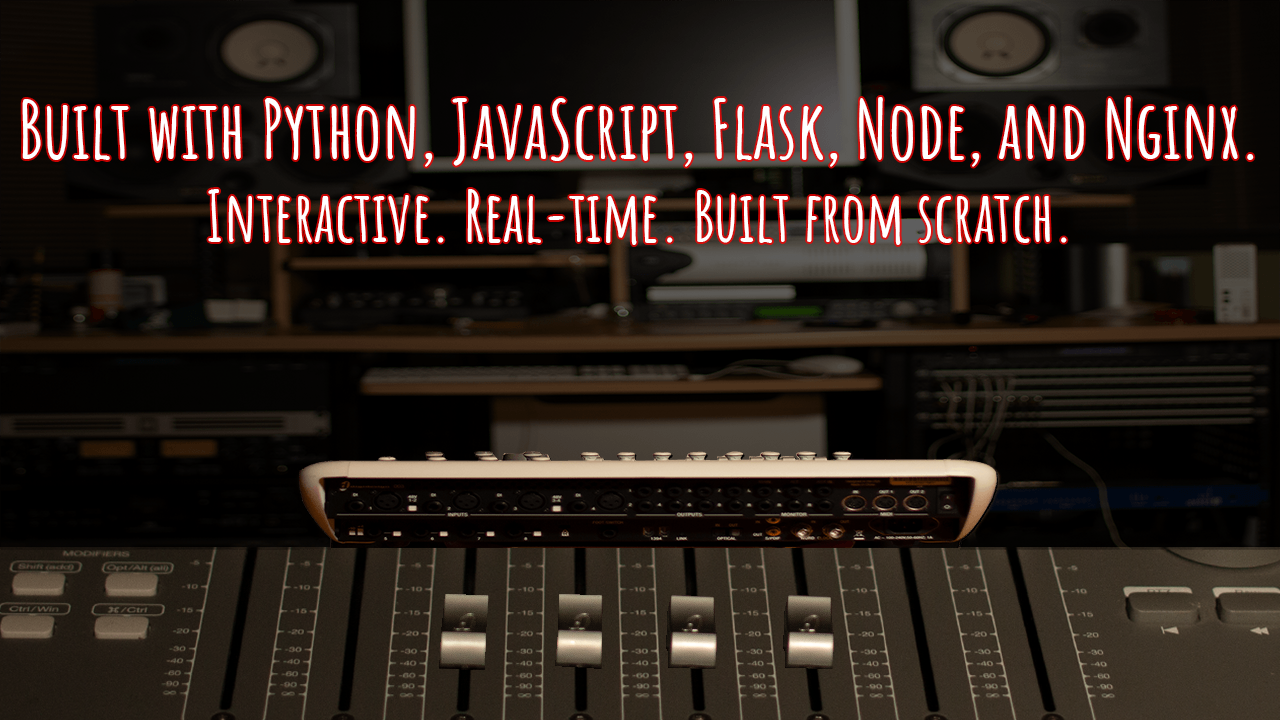
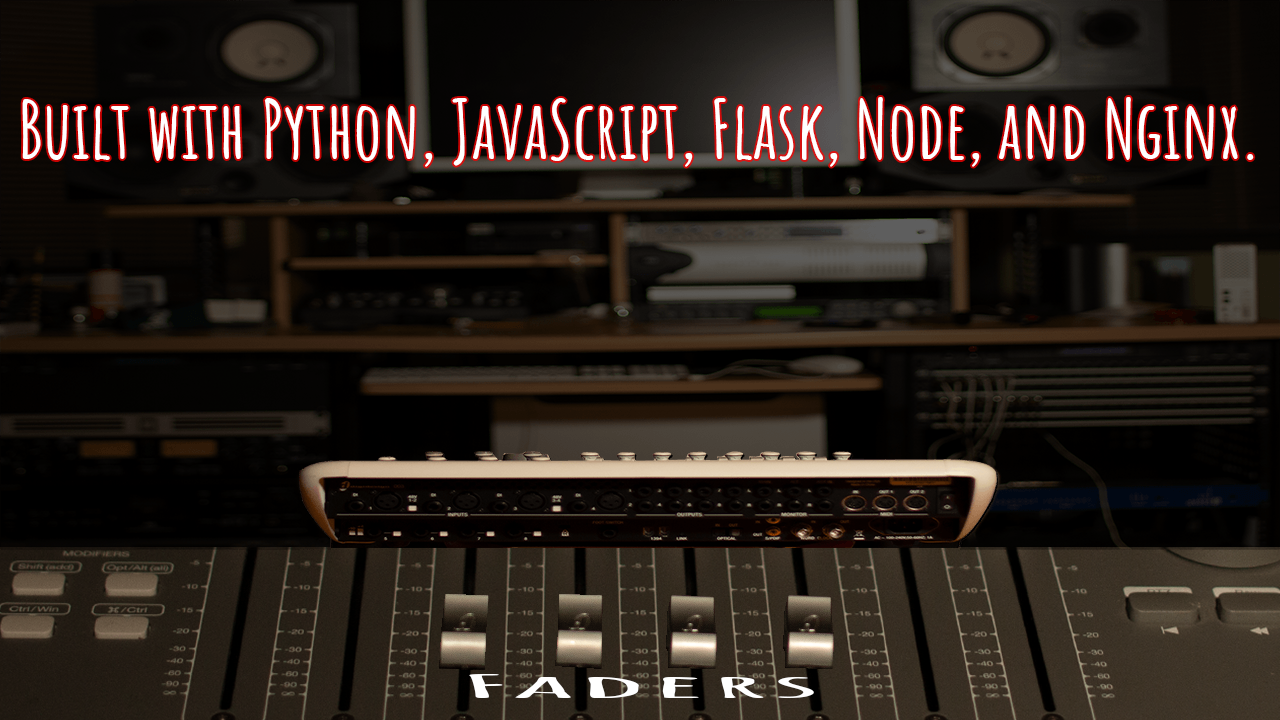
UI changes to make the game easier to understand

Changed region(s): [[0.1562, 0.2444, 0.8438, 0.3361], [0.3438, 0.9167, 0.5312, 0.9778], [0.5625, 0.9167, 0.6562, 0.9778]]

diff --git a/main.css b/main.css
@@ -477,6 +477,41 @@ body {
   overflow: hidden;
 }
 
+.game-instructions-text {
+    position: absolute;
+
+    left: 50%;
+    top: 24%;              /* Adjust until it sits just under your red title */
+
+    transform: translateX(-50%);
+
+    width: 80%;
+
+    text-align: center;
+
+    color: white;
+
+    font-family: "Courier New", monospace;
+
+    font-size: clamp(20px, 1.4vw, 22px);
+
+    line-height: 1.6;
+
+    text-shadow: 2px 2px 8px rgba(0,0,0,.9);
+
+    background: rgba(0,0,0,.45);
+    padding: 14px 22px;
+    border-radius: 12px;
+}
+
+.game-instructions-text p {
+    margin: .45em 0;
+}
+
+.game-instructions-text strong {
+    color: #FDD2BF;
+}
+
 .Start_Button,
 .Sound_Toggle_Button {
   padding: clamp(7px, 1vw, 10px) clamp(12px, 1.8vw, 20px);

diff --git a/main.html b/main.html
@@ -52,7 +52,13 @@ The experience is presented through a simple game, but the underlying system ref
   </div>
 
   <div class="menu-container" style="display:none;">
-    <div class="Instructions"></div>
+    <div class="Instructions">
+      <div class="game-instructions-text">
+        <p>Move out of the way of the threats coming in from the top and side.</p>
+        <p>Tap the FADERS to survive.</p>
+        <p><strong>Just Don't Tap the same fader twice.</strong></p>
+      </div>
+    </div>
     <div class="Footer"></div>
     <button class="Start_Button" type="button">Start</button>
     <button class="Sound_Toggle_Button" type="button">Sound On/Off</button>